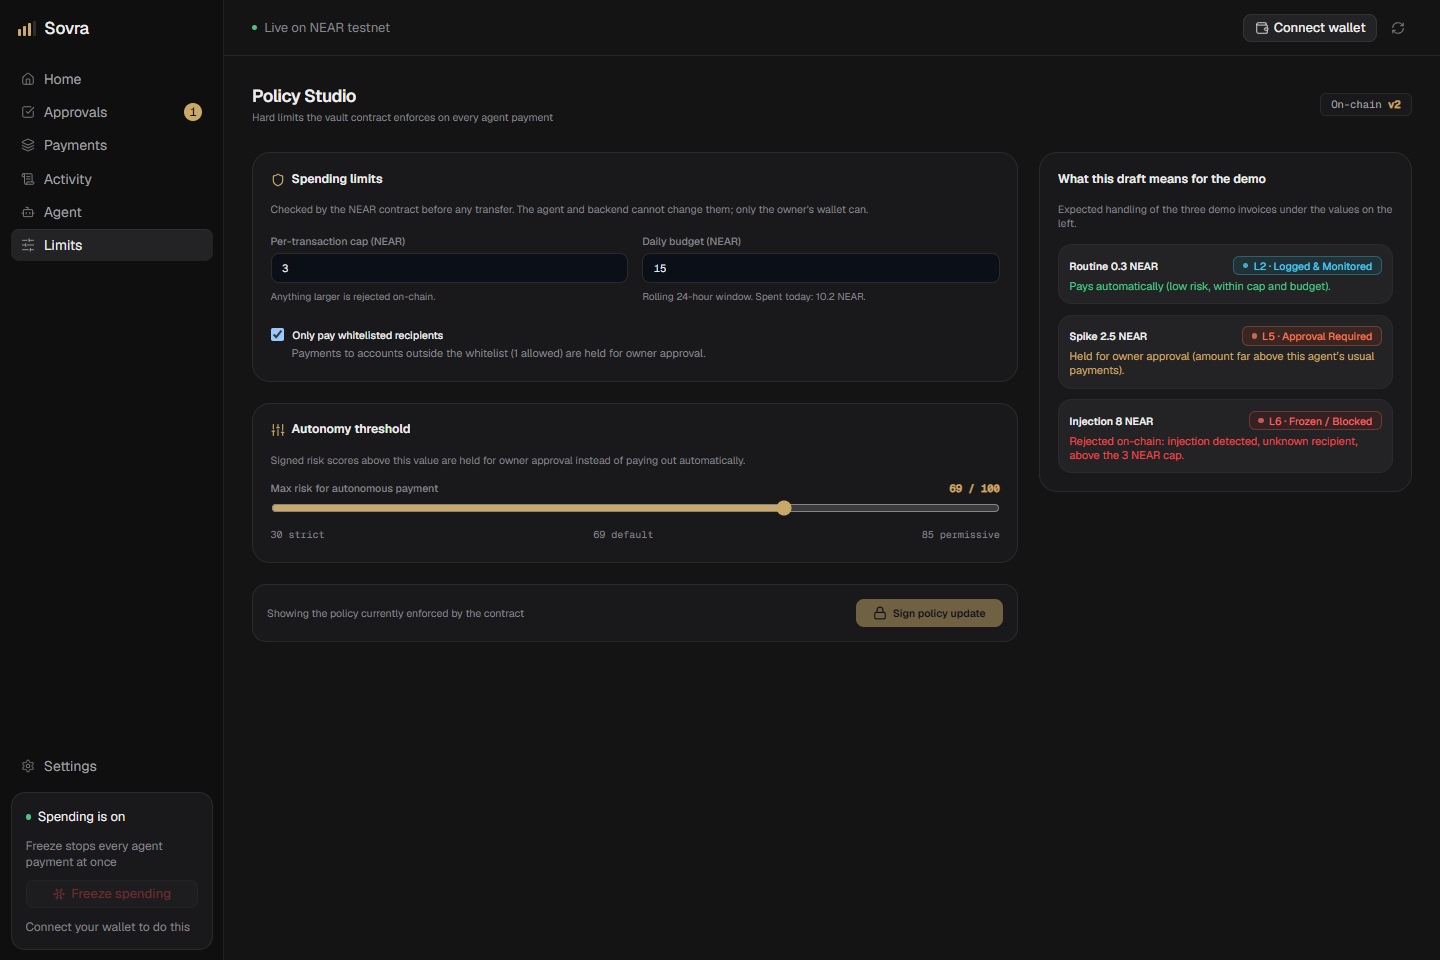
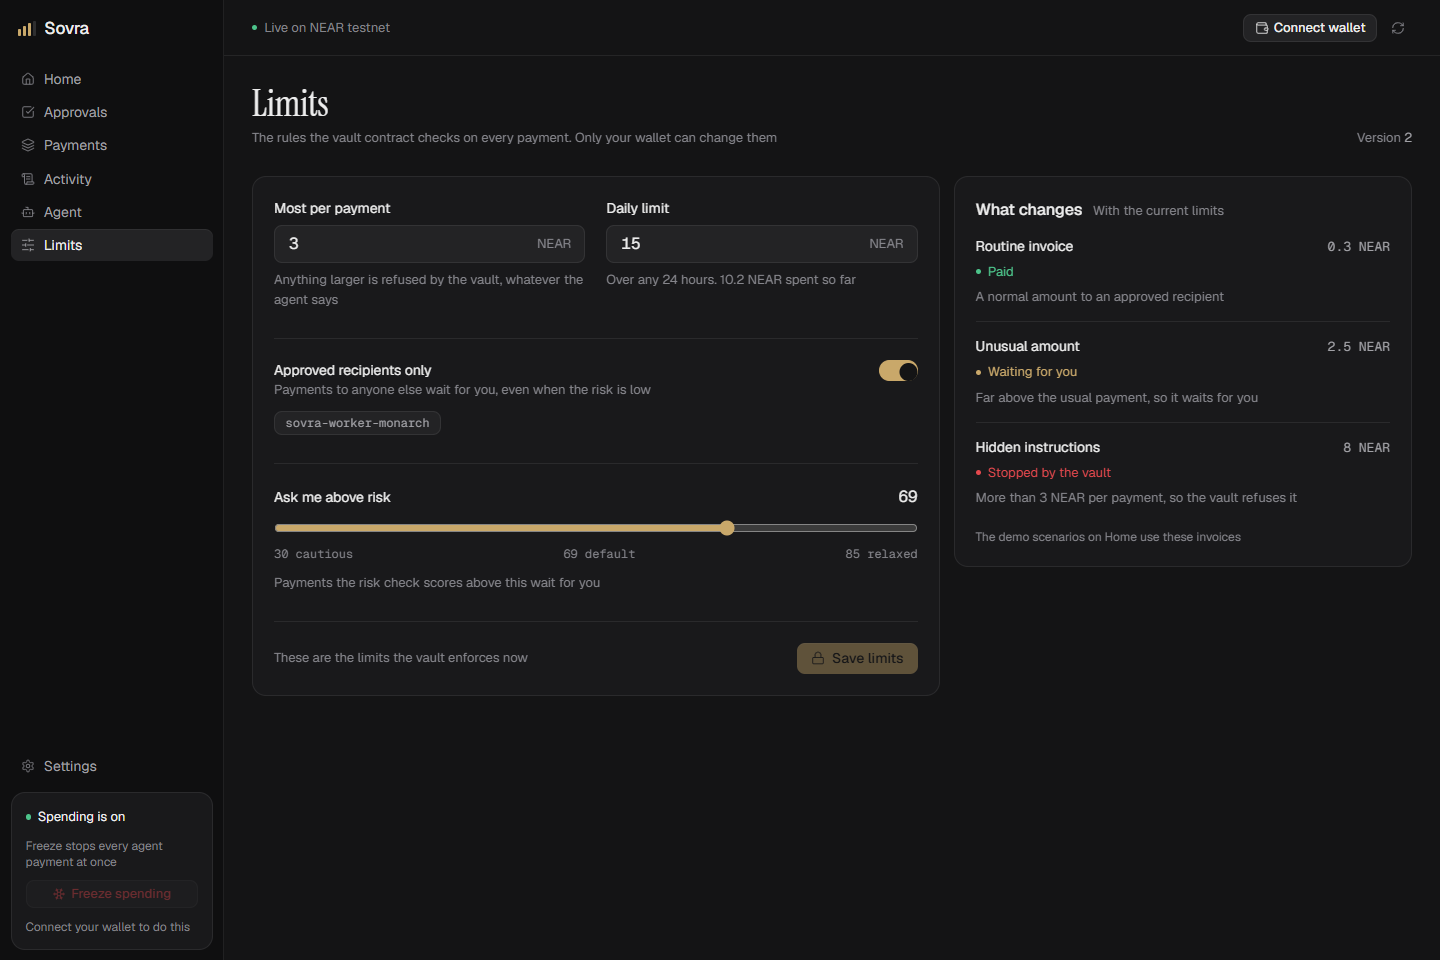
docs: Limits screenshots after rebuild

diff --git a/docs/screenshots/README.md b/docs/screenshots/README.md
@@ -12,10 +12,11 @@ The UI is being rebuilt screen by screen from [design.md](../../design.md). Scre
 | `03-payments.png` | Payments: filters with counts, search, plain-language outcomes | Rebuilt |
 | `04-evidence-drawer.png` | Payment drawer: an owner-approved 2.5 NEAR payment, why it waited, risk check, the agent's words, proof | Rebuilt |
 | `05-approvals.png` | Approvals: a 2.5 NEAR payment held at level 5 as a slip with the countdown ring, plus recent decisions | Rebuilt |
-| `06-limits.png` | Limits (policy v2) | Legacy |
+| `06-limits.png` | Limits (version 2): plain-language fields, approved recipients, and what changes for each demo invoice | Rebuilt |
 | `07-activity.png` | Activity: one sentence per event, grouped by day, with proof links | Rebuilt |
 | `08-mobile-home.png` | Home at 390 px | Rebuilt |
 | `09-mobile-payments.png` | Payments at 390 px | Rebuilt |
 | `10-mobile-approvals.png` | Approvals at 390 px | Rebuilt |
 | `11-mobile-activity.png` | Activity at 390 px | Rebuilt |
 | `12-mobile-agent.png` | Agent at 390 px | Rebuilt |
+| `13-mobile-limits.png` | Limits at 390 px | Rebuilt |
